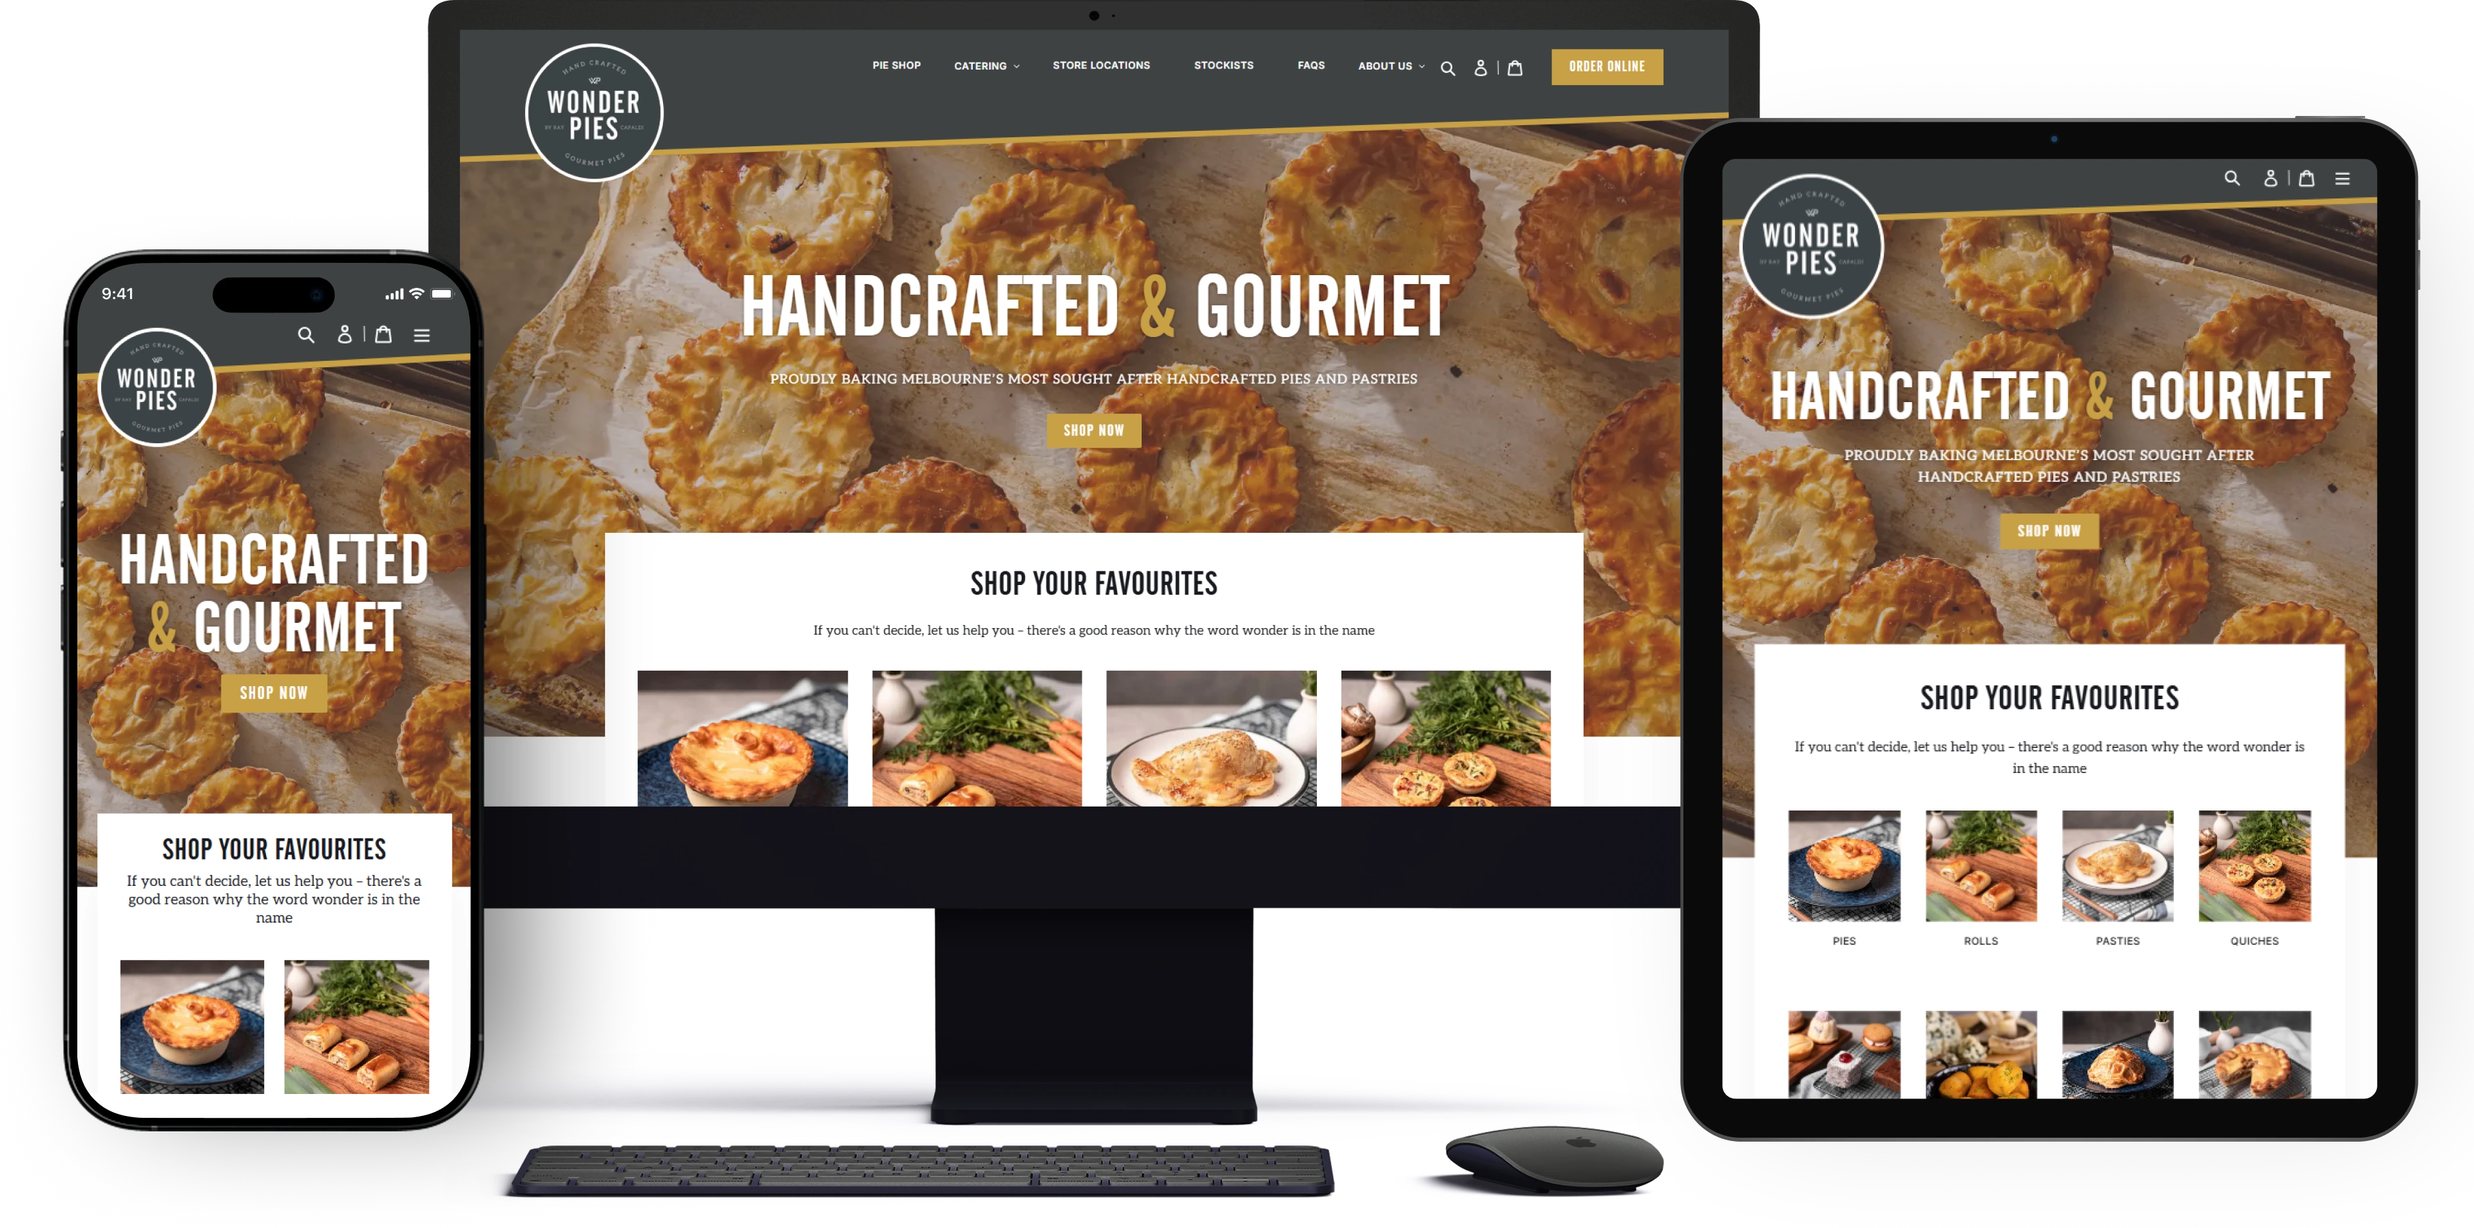
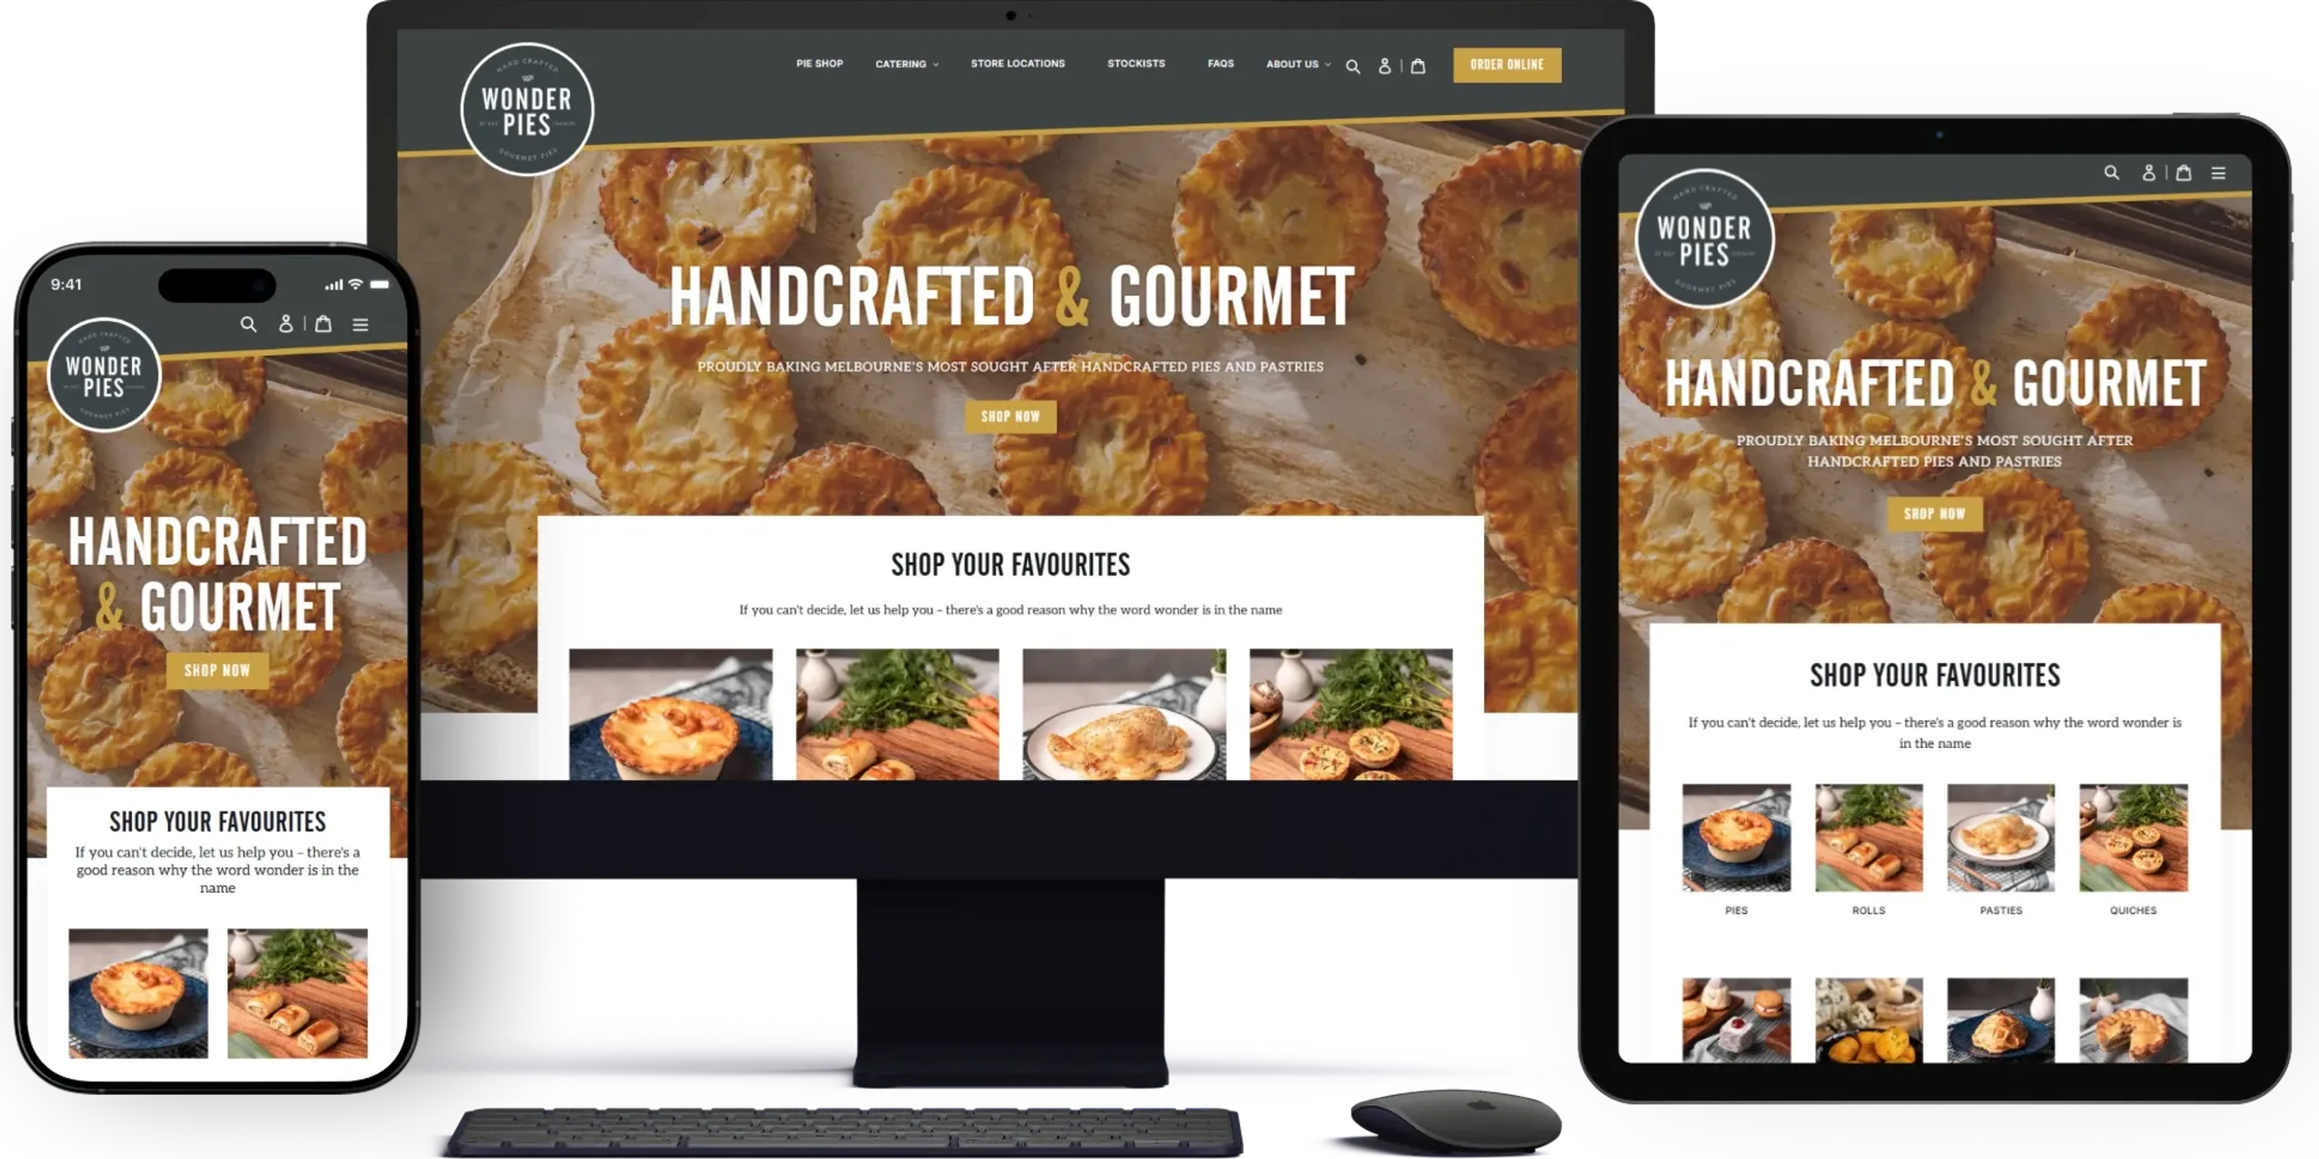
Works: plain scroll with snap, Telco ICT slide, Wonder Pies image, mobile fill layout, chips scroll fix, bigger loader mark

diff --git a/src/components/organisms/Chapters.tsx b/src/components/organisms/Chapters.tsx
@@ -1,9 +1,8 @@
 "use client";
 
-import Link from "next/link";
 import { useEffect, useRef, useState } from "react";
 import { adBeats, chapters, site } from "@/data/site";
-import { Arrow, BtnCircle } from "@/components/atoms/Buttons";
+import { Btn, BtnCircle } from "@/components/atoms/Buttons";
 import { Reveal } from "@/components/atoms/Reveal";
 import { ProjectsDelivered, WelcomeScene } from "./QuodarcaScenes";
 import { ProcessChallenges } from "./ProcessChallenges";
@@ -12,12 +11,12 @@ import { ZeroGaspiScene } from "./ZeroGaspiScene";
 import { KeysboroughScene } from "./KeysboroughScene";
 import { SpoonfulScene } from "./SpoonfulScene";
 import { WonderPiesScene } from "./WonderPiesScene";
+import { TelcoIctScene } from "./TelcoIctScene";
 import { DesignSystemScene } from "./DesignSystemScene";
 import { ProductFeatures } from "./ProductFeatures";
 import type { FilmClip, FilmItem, FilmSlide } from "@/types/film";
 import { ToolIcon } from "@/components/atoms/ToolIcons";
 import { useReducedMotion } from "@/hooks/useReducedMotion";
-import { useFullPageScroll } from "@/hooks/useFullPageScroll";
 
 const ease = (t: number) => 1 - Math.pow(1 - t, 3);
 
@@ -25,7 +24,7 @@ const ease = (t: number) => 1 - Math.pow(1 - t, 3);
 // `run` changes whenever the current segment starts over, so its fill restarts.
 // What the bar sits on, so it can be white on dark backgrounds and black on light ones.
 type Tone = "light" | "dark";
-const SCENE_TONE: Record<string, Tone> = { welcome: "dark", "process-challenges": "light", approach: "light", "design-system": "light", "product-features": "dark", "projects-delivered": "light", zerogaspi: "light", keysborough: "light", spoonful: "light", wonderpies: "light" };
+const SCENE_TONE: Record<string, Tone> = { welcome: "dark", "process-challenges": "light", approach: "light", "design-system": "light", "product-features": "dark", "projects-delivered": "light", zerogaspi: "light", keysborough: "light", spoonful: "light", wonderpies: "light", telcoict: "light" };
 const toneOfColour = (hex: string): Tone => {
   const m = /^#?([0-9a-f]{6})$/i.exec(hex);
   if (!m) return "light";
@@ -291,6 +290,7 @@ function ChapterFilm({ items, poster }: { items: FilmItem[]; poster: string }) {
           if (it.id === "process-challenges") return <ProcessChallenges key={i} active={active} holdMs={holdMs} />;
           if (it.id === "approach") return <ApproachScene key={i} active={active} holdMs={holdMs} />;
           if (it.id === "wonderpies") return <WonderPiesScene key={i} active={active} holdMs={holdMs} />;
+          if (it.id === "telcoict") return <TelcoIctScene key={i} active={active} holdMs={holdMs} />;
           if (it.id === "spoonful") return <SpoonfulScene key={i} active={active} holdMs={holdMs} />;
           if (it.id === "keysborough") return <KeysboroughScene key={i} active={active} holdMs={holdMs} />;
           if (it.id === "zerogaspi") return <ZeroGaspiScene key={i} active={active} holdMs={holdMs} />;
@@ -316,7 +316,7 @@ function Plate({ c }: { c: (typeof chapters)[number] }) {
           <div className="chap-stat" key={s.l}><b>{s.v}</b><i>{s.l}</i></div>
         ))}
       </div>
-      <Link href={c.href} className="chap-cta"><span>See the work</span><Arrow /></Link>
+      <Btn href={c.href} className="chap-cta">See the work</Btn>
     </div>
   );
 }
@@ -354,8 +354,6 @@ function Chapter({ c }: { c: (typeof chapters)[number] }) {
 }
 
 export function Chapters() {
-  const stack = useRef<HTMLDivElement>(null);
-  useFullPageScroll(stack, ".chap");
   return (
     <section className="chapters" id="chapters">
       <div className="shell">
@@ -369,7 +367,7 @@ export function Chapters() {
           </div>
         </Reveal>
       </div>
-      <div className="chap-stack" ref={stack}>
+      <div className="chap-stack">
         {chapters.map((c) => <Chapter key={c.name} c={c} />)}
       </div>
       <div className="shell">

diff --git a/src/app/landing.css b/src/app/landing.css
@@ -38,7 +38,9 @@ body.loaded .hero-ghost { animation: fade 1.6s var(--ease) 0.9s forwards; }
 
 /* chapters */
 .chap-stack { position: relative; }
-.chap { position: relative; height: 100svh; display: block; overflow: hidden; text-decoration: none; background: var(--coal); }
+/* each work pulls to the top of the screen as you scroll (proximity snap, so the rest of the page scrolls free); no stacking or parallax */
+html { scroll-snap-type: y proximity; }
+.chap { position: relative; height: 100svh; display: block; overflow: hidden; text-decoration: none; background: var(--coal); scroll-snap-align: start; scroll-snap-stop: always; }
 /* progress along the top of a work: a segment per slide or clip */
 .film-progress { position: absolute; left: var(--gutter); right: var(--gutter); top: 18px; z-index: 30; display: flex; gap: 4px; pointer-events: none; }
 .film-progress { --fpb-fill: #0b0b0a; --fpb-track: rgba(11, 11, 10, 0.16); } /* on a light background: black */
@@ -64,15 +66,7 @@ body.loaded .hero-ghost { animation: fade 1.6s var(--ease) 0.9s forwards; }
 .chap-stats { display: flex; gap: 36px; margin-top: 32px; flex-wrap: wrap; }
 .chap-stat b { display: block; font-family: var(--display); font-weight: 400; text-transform: uppercase; font-size: clamp(30px, 3vw, 44px); line-height: 1; color: var(--ink); }
 .chap-stat i { display: block; font-style: normal; font-family: var(--sans); font-weight: 600; font-size: 13px; color: var(--ink-50); margin-top: 8px; }
-/* the only link in a work: a pill that floods with the brand colour from the left and sends its arrow off and back on hover */
-.chap-cta { position: relative; display: inline-flex; align-items: center; gap: 10px; margin-top: 28px; padding: 14px 22px; border: 1.5px solid var(--ink); border-radius: 999px; overflow: hidden; isolation: isolate; text-decoration: none; font-family: var(--sans); font-size: 13px; font-weight: 600; letter-spacing: 0.12em; text-transform: uppercase; color: var(--ink); transition: color 0.35s var(--ease), border-color 0.35s var(--ease), transform 0.35s var(--ease); }
-.chap-cta::before { content: ""; position: absolute; inset: 0; z-index: -1; background: var(--brand); transform: translateX(-101%); transition: transform 0.45s var(--ease); }
-.chap-cta svg { position: relative; width: 12px; height: 12px; }
-.chap-cta:hover, .chap-cta:focus-visible { color: var(--white); border-color: var(--brand); }
-.chap-cta:hover::before, .chap-cta:focus-visible::before { transform: none; }
-.chap-cta:hover svg, .chap-cta:focus-visible svg { animation: ctaArrow 0.5s var(--ease); }
-.chap-cta:active { transform: scale(0.96); }
-@keyframes ctaArrow { 0% { transform: none; } 45% { transform: translate(14px, -14px); opacity: 0; } 46% { transform: translate(-14px, 14px); opacity: 0; } 100% { transform: none; opacity: 1; } }
+.chap-cta { margin-top: 28px; }
 
 /* kinetic ad */
 .sloop { position: absolute; inset: 0; overflow: hidden; --fg: var(--ink); }
@@ -182,8 +176,12 @@ body.loaded .hero-ghost { animation: fade 1.6s var(--ease) 0.9s forwards; }
   .chap-name { font-size: 32px; }
   .chap-role { margin-top: 6px; font-size: 14px; }
   .chap-sub { margin-top: 12px; font-size: 15px; display: -webkit-box; -webkit-line-clamp: 3; -webkit-box-orient: vertical; overflow: hidden; }
-  .chap-stats { display: none; }
-  .chap-cta { margin-top: 16px; padding: 12px 20px; }
+  .chap-stats { gap: 20px 28px; margin-top: 16px; }
+  .chap-stat b { font-size: 28px; }
+  .chap-stat i { margin-top: 4px; font-size: 12px; }
+  .chap-video { object-fit: cover; }
+  .sl-screen--contain { object-fit: cover; padding: 0; }
+  .chap-cta { margin-top: 16px; }
   .sl-line { max-width: 12ch; }
   .quote-grid { grid-template-columns: 1fr; gap: 12px; }
   .quote-card--feature { grid-column: auto; grid-row: auto; padding: 28px; }

diff --git a/src/components/organisms/ChipsCircle.tsx b/src/components/organisms/ChipsCircle.tsx
@@ -125,6 +125,19 @@ export function ChipsCircle({ chips }: { chips: Chip[] }) {
         const m = mouse as unknown as { element: HTMLElement; mousewheel: EventListener };
         m.element.removeEventListener("mousewheel", m.mousewheel);
         m.element.removeEventListener("DOMMouseScroll", m.mousewheel);
+        m.element.removeEventListener("wheel", m.mousewheel); // matter 0.20 listens to "wheel", and its handler blocks the page from scrolling over the circle
+        // touch: only a finger that lands on a chip drags it; a finger on the empty part of the circle scrolls the page as usual
+        const tm = mouse as unknown as { mousedown: EventListener; mousemove: EventListener; mouseup: EventListener };
+        m.element.removeEventListener("touchstart", tm.mousedown);
+        m.element.removeEventListener("touchmove", tm.mousemove);
+        m.element.removeEventListener("touchend", tm.mouseup);
+        let grabbing = false;
+        const tStart = (e: TouchEvent) => { grabbing = !!(e.target as HTMLElement | null)?.closest("[data-chip]"); if (grabbing) tm.mousedown(e); };
+        const tMove = (e: TouchEvent) => { if (grabbing) tm.mousemove(e); };
+        const tEnd = (e: TouchEvent) => { if (grabbing) tm.mouseup(e); grabbing = false; };
+        host.addEventListener("touchstart", tStart, { passive: false });
+        host.addEventListener("touchmove", tMove, { passive: false });
+        host.addEventListener("touchend", tEnd, { passive: false });
         const drag = MouseConstraint.create(engine, { mouse, constraint: { stiffness: 0.2, damping: 0.12, render: { visible: false } } });
         Composite.add(world, drag);
 
@@ -213,6 +226,9 @@ export function ChipsCircle({ chips }: { chips: Chip[] }) {
           },
           dispose() {
             host.removeEventListener("pointerdown", wake);
+            host.removeEventListener("touchstart", tStart);
+            host.removeEventListener("touchmove", tMove);
+            host.removeEventListener("touchend", tEnd);
             host.removeEventListener("mouseleave", release);
             window.removeEventListener("mouseup", release);
             window.removeEventListener("touchend", release);

diff --git a/src/app/site.css b/src/app/site.css
@@ -64,8 +64,8 @@ body.menu-locked { overflow: hidden; }
 /* loader */
 .loader { position: fixed; inset: 0; z-index: 9999; background: var(--coal); display: flex; align-items: center; justify-content: center; transition: opacity 0.6s var(--ease), visibility 0.6s var(--ease); }
 .loader.done { opacity: 0; visibility: hidden; pointer-events: none; }
-.loader-mark { font-family: var(--display); font-size: 108px; text-transform: uppercase; color: var(--white); animation: tubeFlicker 1.6s step-end both; }
-.loader-mark i { display: inline-block; width: 24px; height: 24px; border-radius: 50%; background: var(--brand); margin-left: 9px; animation: dotPop 1.6s cubic-bezier(0.2, 0, 0, 1) both; }
+.loader-mark { font-family: var(--display); font-size: 162px; text-transform: uppercase; color: var(--white); animation: tubeFlicker 1.6s step-end both; }
+.loader-mark i { display: inline-block; width: 36px; height: 36px; border-radius: 50%; background: var(--brand); margin-left: 14px; animation: dotPop 1.6s cubic-bezier(0.2, 0, 0, 1) both; }
 @keyframes tubeFlicker { 0% { opacity: 0; } 20% { opacity: 0.1; } 24% { opacity: 0; } 30% { opacity: 0.4; } 34% { opacity: 0.05; } 45% { opacity: 1; } 100% { opacity: 1; } }
 @keyframes dotPop { 0%, 40% { transform: scale(0); opacity: 0; } 55% { transform: scale(1.2); opacity: 1; } 65%, 100% { transform: scale(1); opacity: 1; } }
 

diff --git a/src/components/organisms/TelcoIctScene.tsx b/src/components/organisms/TelcoIctScene.tsx
@@ -1,0 +1,23 @@
+"use client";
+
+import { motion, type Easing } from "motion/react";
+import { Scene, type SceneProps } from "./QuodarcaScenes";
+
+const EASE: Easing = [0.23, 1, 0.32, 1]; // --ease in globals.css
+
+// "Telco ICT Group": the website on a phone, a desktop and a tablet as one picture on white, kept whole inside the 16:9 stage, with the same simple entrance as the
+// Sred.io screens (work 1): it fades in over 0.8 s while easing from 106% down to 100% over 4.2 s.
+export function TelcoIctScene(props: SceneProps) {
+  return (
+    <Scene {...props} bars="#ffffff" stage="purple" base="#ffffff">
+      <motion.img
+        alt="The Telco ICT Group website on a phone, a desktop and a tablet: telecommunications and IT that works every time."
+        src="/images/work/telcoict/devices.webp"
+        style={{ position: "absolute", left: 0, top: 0, width: 1920, height: 1080, objectFit: "contain", padding: "16px 24px", boxSizing: "border-box" }}
+        initial={{ opacity: 0, scale: 1.06 }}
+        animate={props.active ? { opacity: 1, scale: 1 } : { opacity: 0, scale: 1.06 }}
+        transition={{ opacity: { duration: 0.8, ease: EASE }, scale: { duration: 4.2, ease: EASE } }}
+      />
+    </Scene>
+  );
+}

diff --git a/src/types/film.ts b/src/types/film.ts
@@ -3,5 +3,5 @@ export type FilmClip = { type: "clip"; src: string; bg: string; fit?: "cover" };
 // A stat slide between two scenes, in the style of the Sred.io beats: a small kicker, a big number (counting up) or line, and a short tag.
 export type FilmSlide = { type: "slide"; bg: string; image?: string; dark: boolean; dur: number; kicker?: string; logo?: { src: string; name: string }; giant?: number; suffix?: string; line?: string; tag?: string };
 // A scene drawn in code from the Figma file, instead of a video.
-export type FilmScene = { type: "scene"; id: "welcome" | "process-challenges" | "approach" | "design-system" | "product-features" | "projects-delivered" | "zerogaspi" | "keysborough" | "spoonful" | "wonderpies"; dur: number };
+export type FilmScene = { type: "scene"; id: "welcome" | "process-challenges" | "approach" | "design-system" | "product-features" | "projects-delivered" | "zerogaspi" | "keysborough" | "spoonful" | "wonderpies" | "telcoict"; dur: number };
 export type FilmItem = FilmClip | FilmSlide | FilmScene;

diff --git a/src/components/organisms/WonderPiesScene.tsx b/src/components/organisms/WonderPiesScene.tsx
@@ -13,7 +13,7 @@ export function WonderPiesScene(props: SceneProps) {
       <motion.img
         alt="The Wonder Pies website on a phone, a desktop and a tablet: handcrafted and gourmet pies and pastries."
         src="/images/work/wonderpies/devices.webp"
-        style={{ position: "absolute", left: 0, top: 0, width: 1920, height: 1080, objectFit: "contain", padding: "40px 60px", boxSizing: "border-box" }}
+        style={{ position: "absolute", left: 0, top: 0, width: 1920, height: 1080, objectFit: "contain", padding: "16px 24px", boxSizing: "border-box" }}
         initial={{ opacity: 0, scale: 1.06 }}
         animate={props.active ? { opacity: 1, scale: 1 } : { opacity: 0, scale: 1.06 }}
         transition={{ opacity: { duration: 0.8, ease: EASE }, scale: { duration: 4.2, ease: EASE } }}

diff --git a/src/components/organisms/SkillsStats.module.css b/src/components/organisms/SkillsStats.module.css
@@ -12,10 +12,11 @@
 }
 .circle {
   --k: 1; position: relative; width: 366px; max-width: 100%; aspect-ratio: 1; border-radius: 50%;
-  background: #1d1f26; overflow: hidden; touch-action: none; user-select: none; cursor: grab; flex: 0 0 auto;
+  background: #1d1f26; overflow: hidden; touch-action: pan-y; user-select: none; cursor: grab; flex: 0 0 auto;
 }
 .circle:active { cursor: grabbing; }
 .chip {
+  touch-action: none;
   position: absolute; left: 0; top: 0; display: inline-flex; align-items: center;
   height: calc(40px * var(--k)); padding: 0 calc(20px * var(--k)); border-radius: calc(28px * var(--k));
   font-family: var(--sans); font-size: calc(14px * var(--k)); font-weight: 500; line-height: 1; white-space: nowrap;

diff --git a/src/data/site.ts b/src/data/site.ts
@@ -120,6 +120,7 @@ export const chapters = [
         { type: "scene", id: "keysborough", dur: 4000 },
         { type: "scene", id: "spoonful", dur: 4000 },
         { type: "scene", id: "wonderpies", dur: 4000 },
+        { type: "scene", id: "telcoict", dur: 4000 },
         { type: "slide", bg: "#302f7f", dark: true, dur: 3000, kicker: "The reach", giant: 50, suffix: "+", tag: "Australian brands" },
         { type: "slide", bg: "#6643be", dark: true, dur: 3000, kicker: "The result", giant: 3, suffix: "x", tag: "Conversion rate" },
         { type: "slide", bg: "#24243b", dark: true, dur: 3000, kicker: "The growth", line: "2.5x", tag: "Online orders" },

diff --git a/src/components/organisms/QuodarcaScenes.tsx b/src/components/organisms/QuodarcaScenes.tsx
@@ -18,7 +18,8 @@ export function Scene({ active, holdMs = 0, idle = false, bars, stage, base, fil
   useEffect(() => {
     const el = frame.current!;
     const measure = () => {
-      const s = Math.min(el.clientWidth / 1920, el.clientHeight / 1080);
+      const narrow = el.clientWidth < 700; // on a phone the stage fills the panel (cropping the sides) instead of leaving bands above and below
+      const s = (narrow ? Math.max : Math.min)(el.clientWidth / 1920, el.clientHeight / 1080);
       setFit({ scale: s, ox: (el.clientWidth - 1920 * s) / 2, oy: (el.clientHeight - 1080 * s) / 2 });
     };
     measure();
